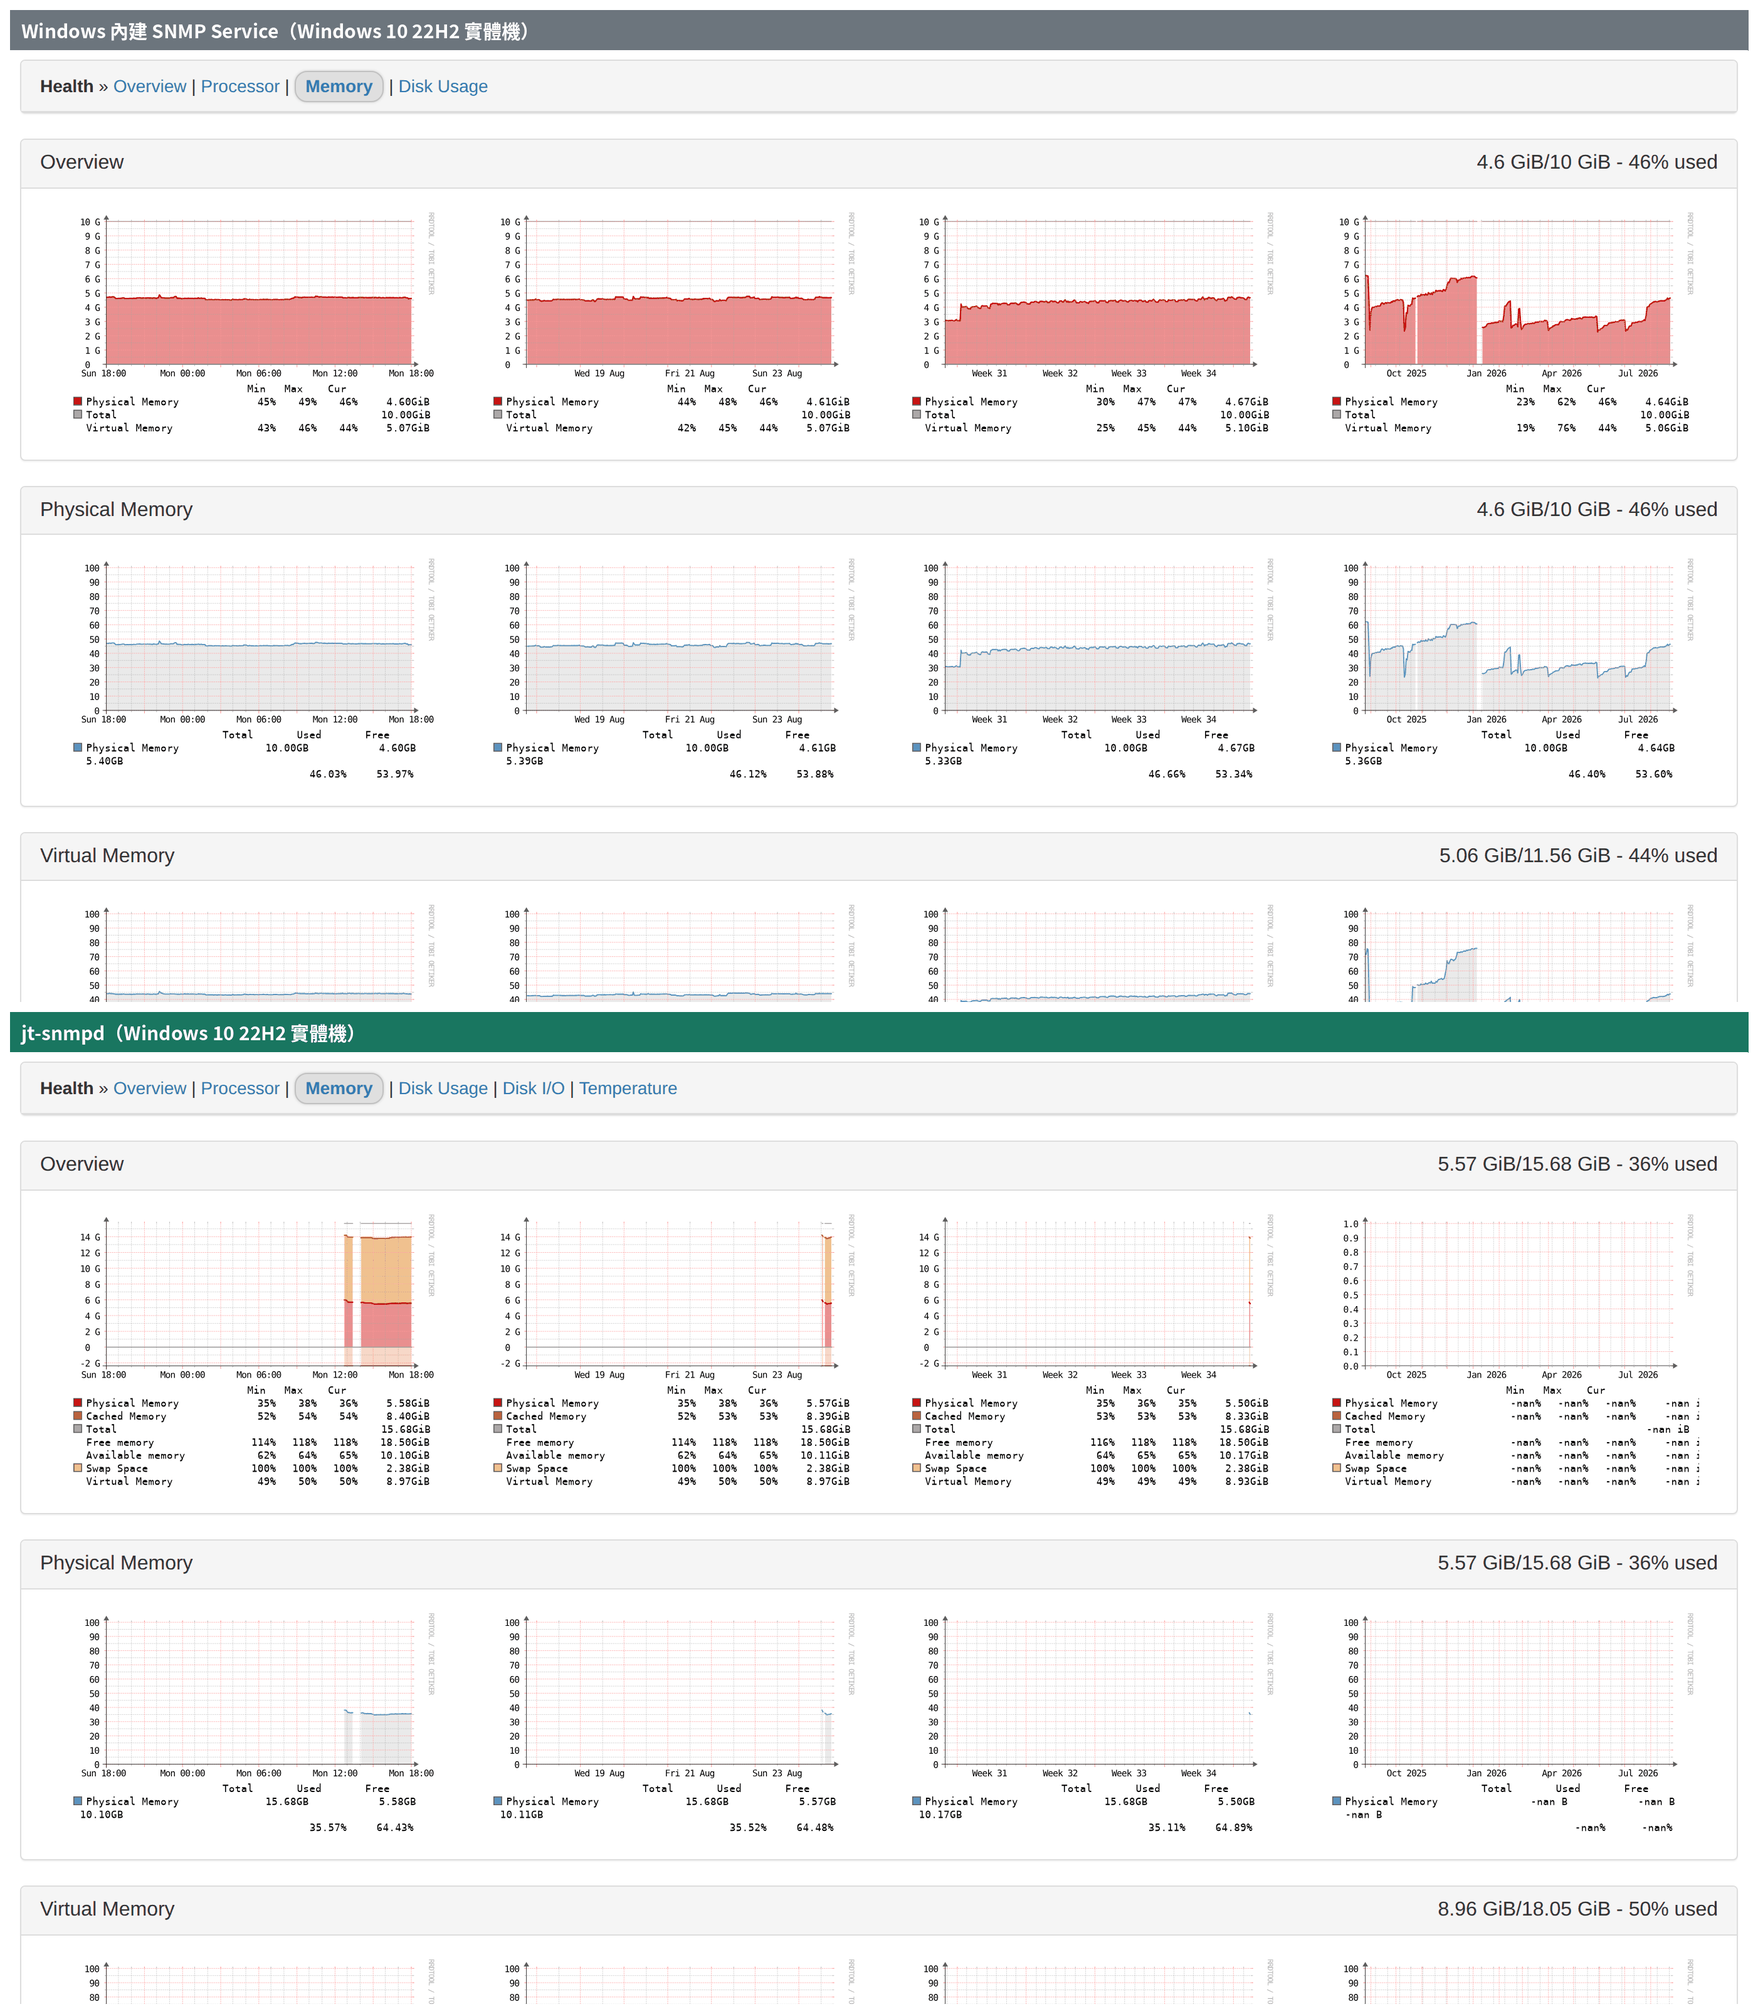
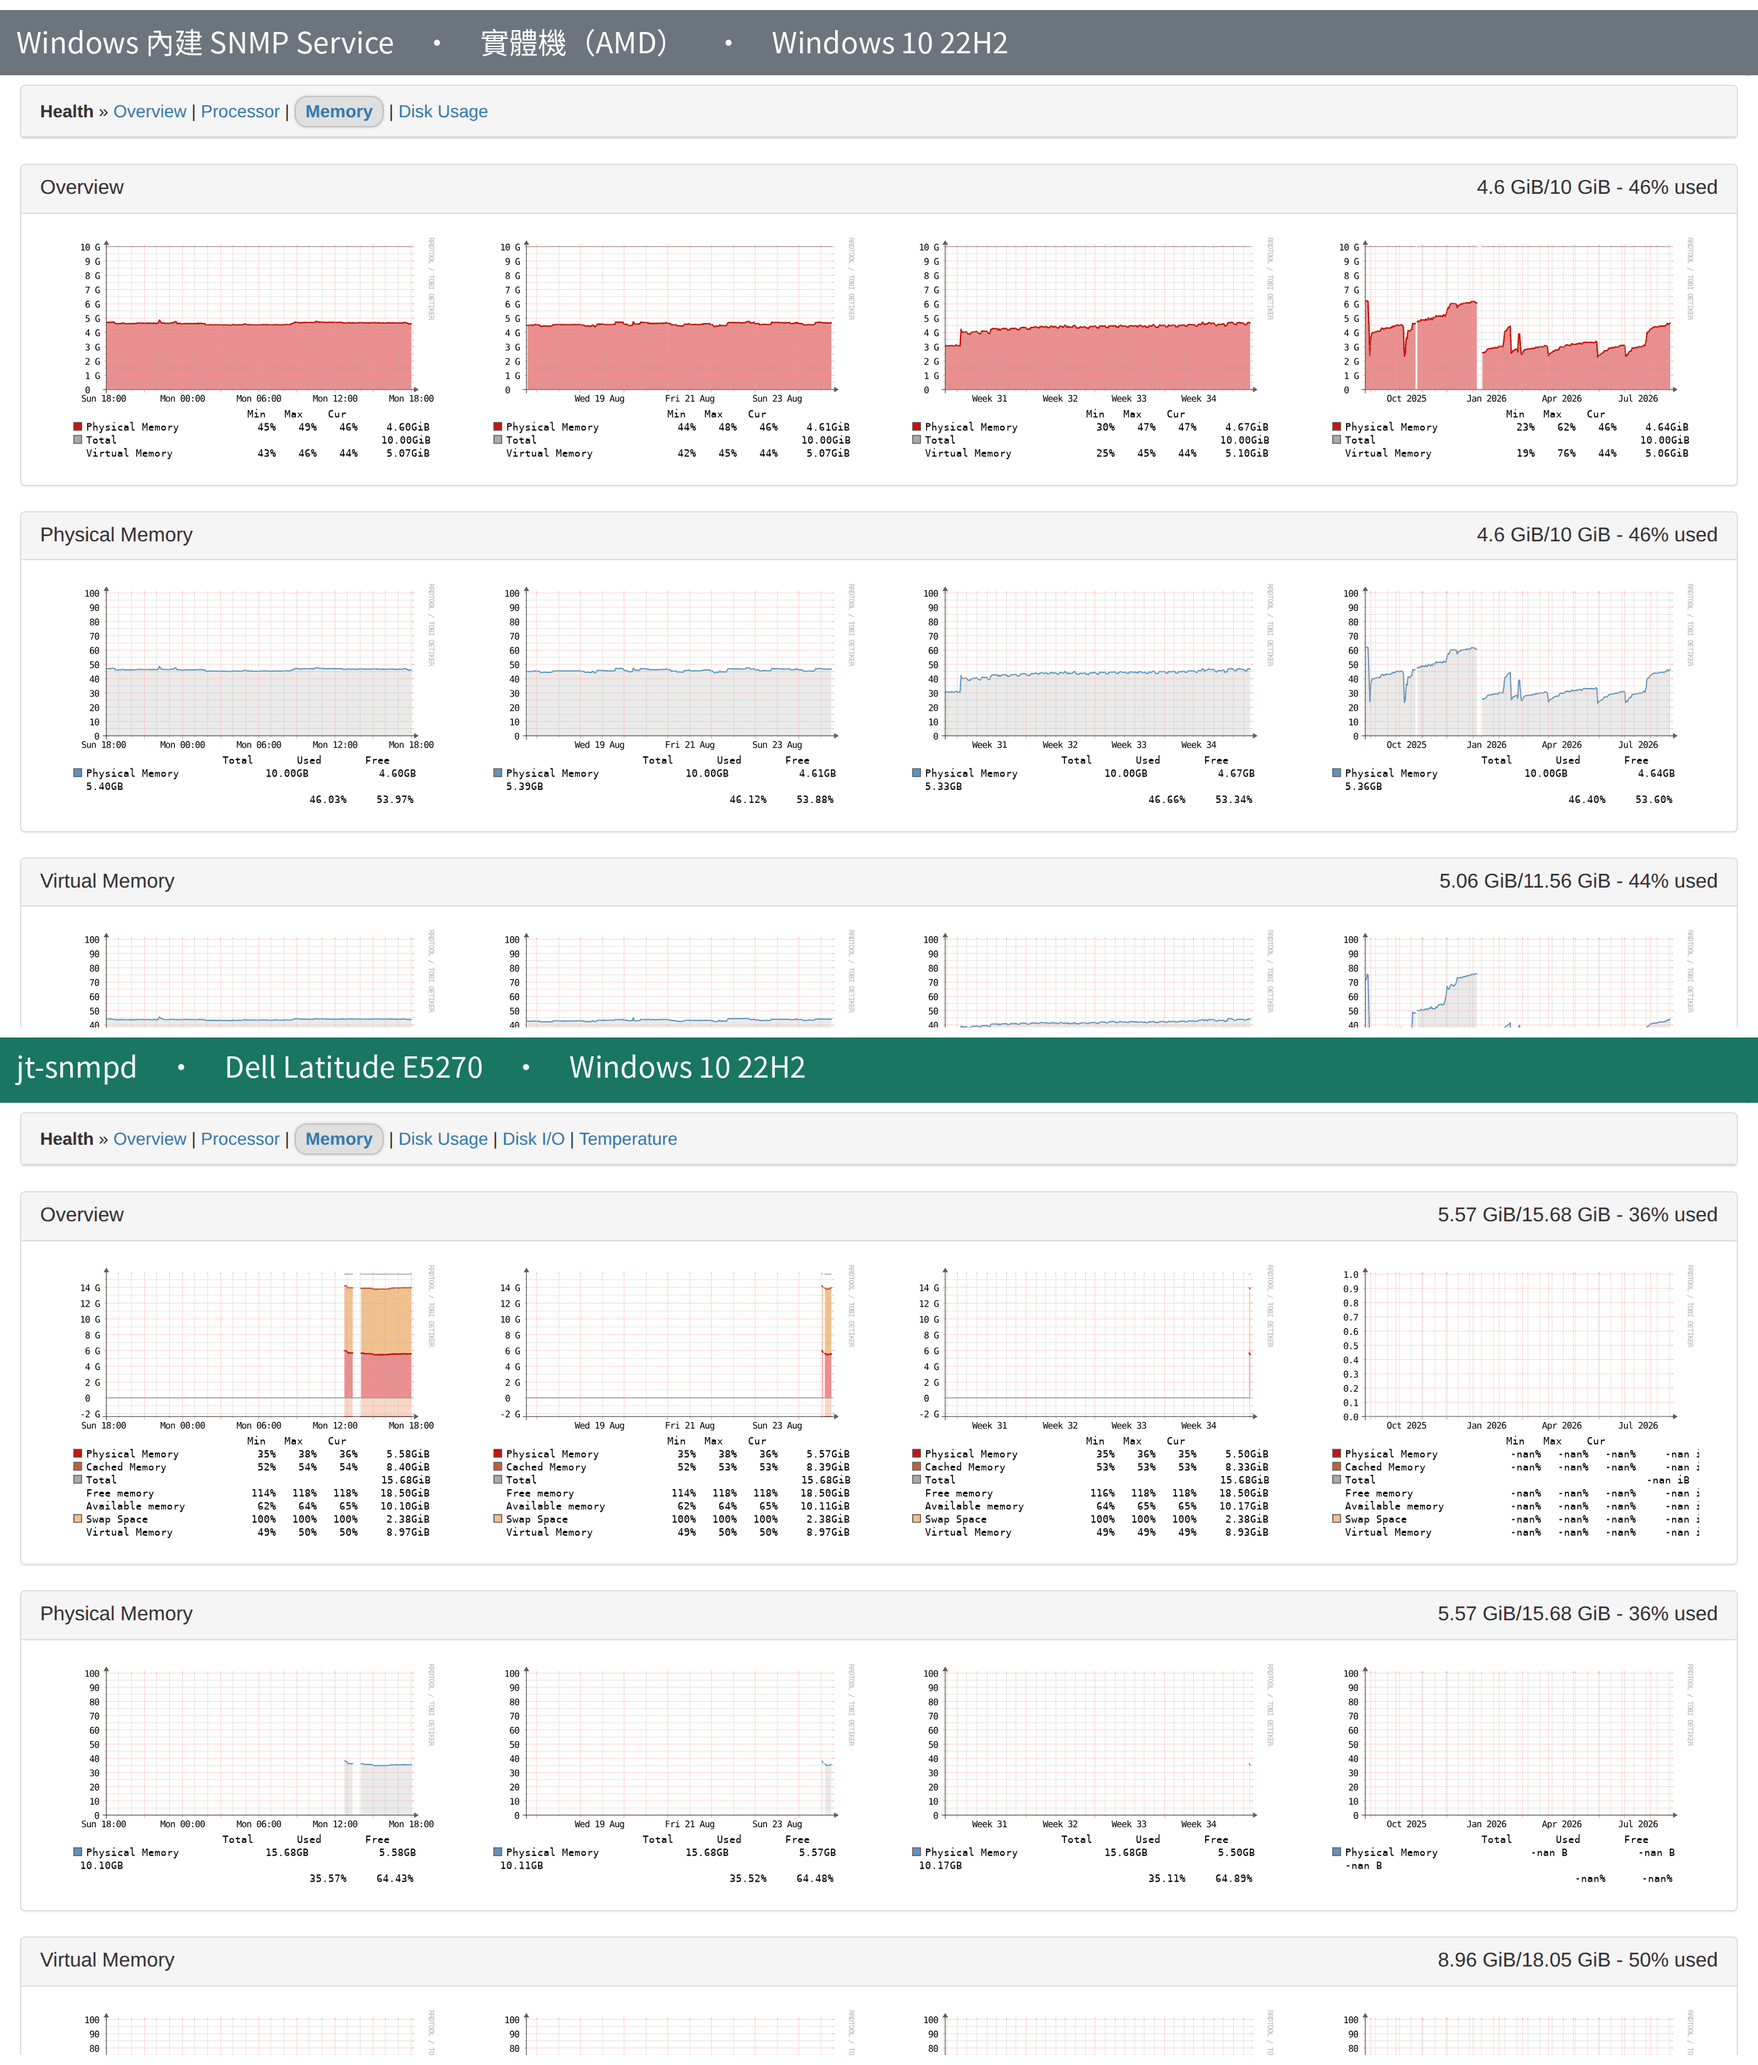
Make the comparison labels legible, and say which machine is which
The two coloured bars above each side-by-side screenshot were 64 px tall with
small text, which is hard to read at page width. They are 104 px now, with the
text at 46 px.

They also said only "physical machine, Windows 10 22H2", which left the obvious
question unanswered and invited the wrong one. These are two different machines,
and their absolute figures differ for that reason alone -- 10 GiB of memory
against 16. Each bar now names its own hardware: Dell Latitude E5270 for the
jt-snmpd host, taken from the entPhysical the agent parses out of SMBIOS itself,
and an AMD machine for the other, which is all its sysDescr offers because the
built-in service publishes no entPhysical at all.

tools/relabel-comparison.py does the work by finding the bars by colour rather
than by position, since the two pages differ in height in every image, and it can
be run again without harm. Verified that only the bars changed: the content below
them is byte-identical, just moved down.

The site's headline asks the question the way an operator would: the built-in
service is deprecated, so where does LibreNMS get its data.

diff --git a/docs/index.html b/docs/index.html
@@ -193,8 +193,8 @@ footer .wrap{display:flex;flex-wrap:wrap;gap:16px;justify-content:space-between}
 
 <header class="hero"><div class="wrap">
   <h1>
-    <span class="zh">Windows 內建 SNMP 已停止支援，<br>往後要怎麼輪詢？交給 jt-snmpd 接手。</span>
-    <span class="en">Windows' built-in SNMP is deprecated.<br>So what polls your hosts now? jt-snmpd takes over.</span>
+    <span class="zh">Windows 內建 SNMP 已停止支援，<br>LibreNMS 怎麼撈？交給 jt-snmpd 接手。</span>
+    <span class="en">Windows' built-in SNMP is deprecated.<br>So where does LibreNMS get its data? jt-snmpd takes over.</span>
   </h1>
   <p class="lead">
     <span class="zh">jt-snmpd 是一個 <b>唯讀</b> 的 Windows SNMP agent，以標準 MIB 把主機監控資料餵給 LibreNMS，

diff --git a/tools/relabel-comparison.py b/tools/relabel-comparison.py
@@ -1,0 +1,144 @@
+#!/usr/bin/env python3
+# -*- coding: utf-8 -*-
+"""Redraw the header bars on the side-by-side comparison screenshots.
+
+Each comparison image stacks two LibreNMS pages, one from a host running the
+built-in Windows SNMP Service and one from a host running jt-snmpd, with a
+coloured bar above each saying which is which. The bars were composited by hand
+originally, and they were too short to read comfortably at page width.
+
+They also said only "Windows 10 22H2 physical machine", which left the obvious
+question unanswered and invited a wrong one. **The two hosts are different
+machines**, and their absolute figures differ for that reason alone: 10 GiB of
+memory against 16. The comparison is about which tables LibreNMS receives, not
+about the numbers matching, so each bar now names its own hardware.
+
+The bars are found by colour rather than by position, because the two pages have
+different heights in each image, and replaced in place. Running this twice is
+harmless: it finds the bars it drew last time and draws them again.
+
+Hardware facts come from LibreNMS's own record of the two devices:
+
+    jt-snmpd host   entPhysical, parsed from SMBIOS by the agent itself:
+                    Dell Latitude E5270, Core i5-6300U, 16 GB DDR4-2133
+    built-in host   sysDescr only, because the built-in service publishes no
+                    entPhysical at all: AMD64 Family 25, Windows 10 22H2
+
+Usage::
+
+    python3 tools/relabel-comparison.py
+"""
+
+from __future__ import annotations
+
+import sys
+from pathlib import Path
+
+from PIL import Image, ImageDraw, ImageFont
+
+ROOT = Path(__file__).resolve().parent.parent
+IMAGES = ROOT / "docs" / "images"
+
+GREY = (108, 117, 125)
+GREEN = (25, 118, 96)
+
+# Noto Sans CJK carries both the Latin and the Traditional Chinese glyphs, so one
+# face covers both language variants and they stay visually consistent.
+FONT_PATH = "/usr/share/fonts/opentype/noto/NotoSansCJK-Regular.ttc"
+FONT_TC_INDEX = 3            # 0=JP 1=KR 2=SC 3=TC 4=HK
+
+BAR_HEIGHT = 104             # was 64, which was hard to read at page width
+FONT_SIZE = 46
+PAD_LEFT = 26
+
+LABELS = {
+    # colour -> (Traditional Chinese, English)
+    GREY: ("Windows 內建 SNMP Service　·　實體機（AMD）　·　Windows 10 22H2",
+           "Built-in SNMP Service  ·  physical machine (AMD)  ·  Windows 10 22H2"),
+    GREEN: ("jt-snmpd　·　Dell Latitude E5270　·　Windows 10 22H2",
+            "jt-snmpd  ·  Dell Latitude E5270  ·  Windows 10 22H2"),
+}
+
+
+def find_bars(img: Image.Image, colour: tuple, tol: int = 10) -> list[tuple[int, int]]:
+    """Rows where most of the width is the bar colour.
+
+    Sampled rather than scanned in full: the bars run the whole width, so a
+    sample every 70 px is enough and keeps this quick on a 2804-wide image.
+    """
+    w, h = img.size
+    px = img.load()
+    out: list[tuple[int, int]] = []
+    start = None
+    for y in range(h):
+        row = [px[x, y] for x in range(30, w - 30, 70)]
+        near = sum(1 for c in row
+                   if max(abs(a - b) for a, b in zip(c, colour)) <= tol)
+        is_bar = near >= len(row) * 0.6
+        if is_bar and start is None:
+            start = y
+        elif not is_bar and start is not None:
+            if y - start > 20:
+                out.append((start, y - 1))
+            start = None
+    if start is not None and h - start > 20:
+        out.append((start, h - 1))
+    return out
+
+
+def draw_bar(width: int, colour: tuple, text: str, font: ImageFont.FreeTypeFont) -> Image.Image:
+    bar = Image.new("RGB", (width, BAR_HEIGHT), colour)
+    d = ImageDraw.Draw(bar)
+    box = font.getbbox(text)
+    y = (BAR_HEIGHT - (box[3] - box[1])) // 2 - box[1]
+    d.text((PAD_LEFT, y), text, font=font, fill=(255, 255, 255))
+    return bar
+
+
+def relabel(path: Path, font: ImageFont.FreeTypeFont, english: bool) -> str:
+    img = Image.open(path).convert("RGB")
+    found = []
+    for colour in (GREY, GREEN):
+        for a, b in find_bars(img, colour):
+            found.append((a, b, colour))
+    if len(found) != 2:
+        return f"expected two bars, found {len(found)}; left alone"
+    found.sort()
+
+    # Rebuild top to bottom, substituting each bar with a taller one.
+    pieces: list[Image.Image] = []
+    cursor = 0
+    for top, bottom, colour in found:
+        pieces.append(img.crop((0, cursor, img.width, top)))
+        pieces.append(draw_bar(img.width, colour, LABELS[colour][1 if english else 0], font))
+        cursor = bottom + 1
+    pieces.append(img.crop((0, cursor, img.width, img.height)))
+
+    out = Image.new("RGB", (img.width, sum(p.height for p in pieces)), (255, 255, 255))
+    y = 0
+    for p in pieces:
+        out.paste(p, (0, y))
+        y += p.height
+    out.save(path, "PNG", optimize=True)
+    return f"{img.height} -> {out.height}"
+
+
+def main() -> int:
+    if not Path(FONT_PATH).exists():
+        print(f"missing {FONT_PATH}", file=sys.stderr)
+        return 1
+    font = ImageFont.truetype(FONT_PATH, FONT_SIZE, index=FONT_TC_INDEX)
+    targets = sorted(p for p in IMAGES.glob("*.png")
+                     if not p.name.startswith("install-") and "icon" not in p.name)
+    if not targets:
+        print("no comparison images found", file=sys.stderr)
+        return 1
+    for p in targets:
+        print(f"  {p.name:24} {relabel(p, font, p.stem.endswith('-en'))}")
+    print("\nThese are images. Look at them, then run "
+          "`python3 tools/check-privacy.py --update-images`.")
+    return 0
+
+
+if __name__ == "__main__":
+    raise SystemExit(main())

diff --git a/docs/images/REVIEWED.md b/docs/images/REVIEWED.md
@@ -35,13 +35,13 @@ the review has to happen again.
[21 lines of base64/hex data omitted]
